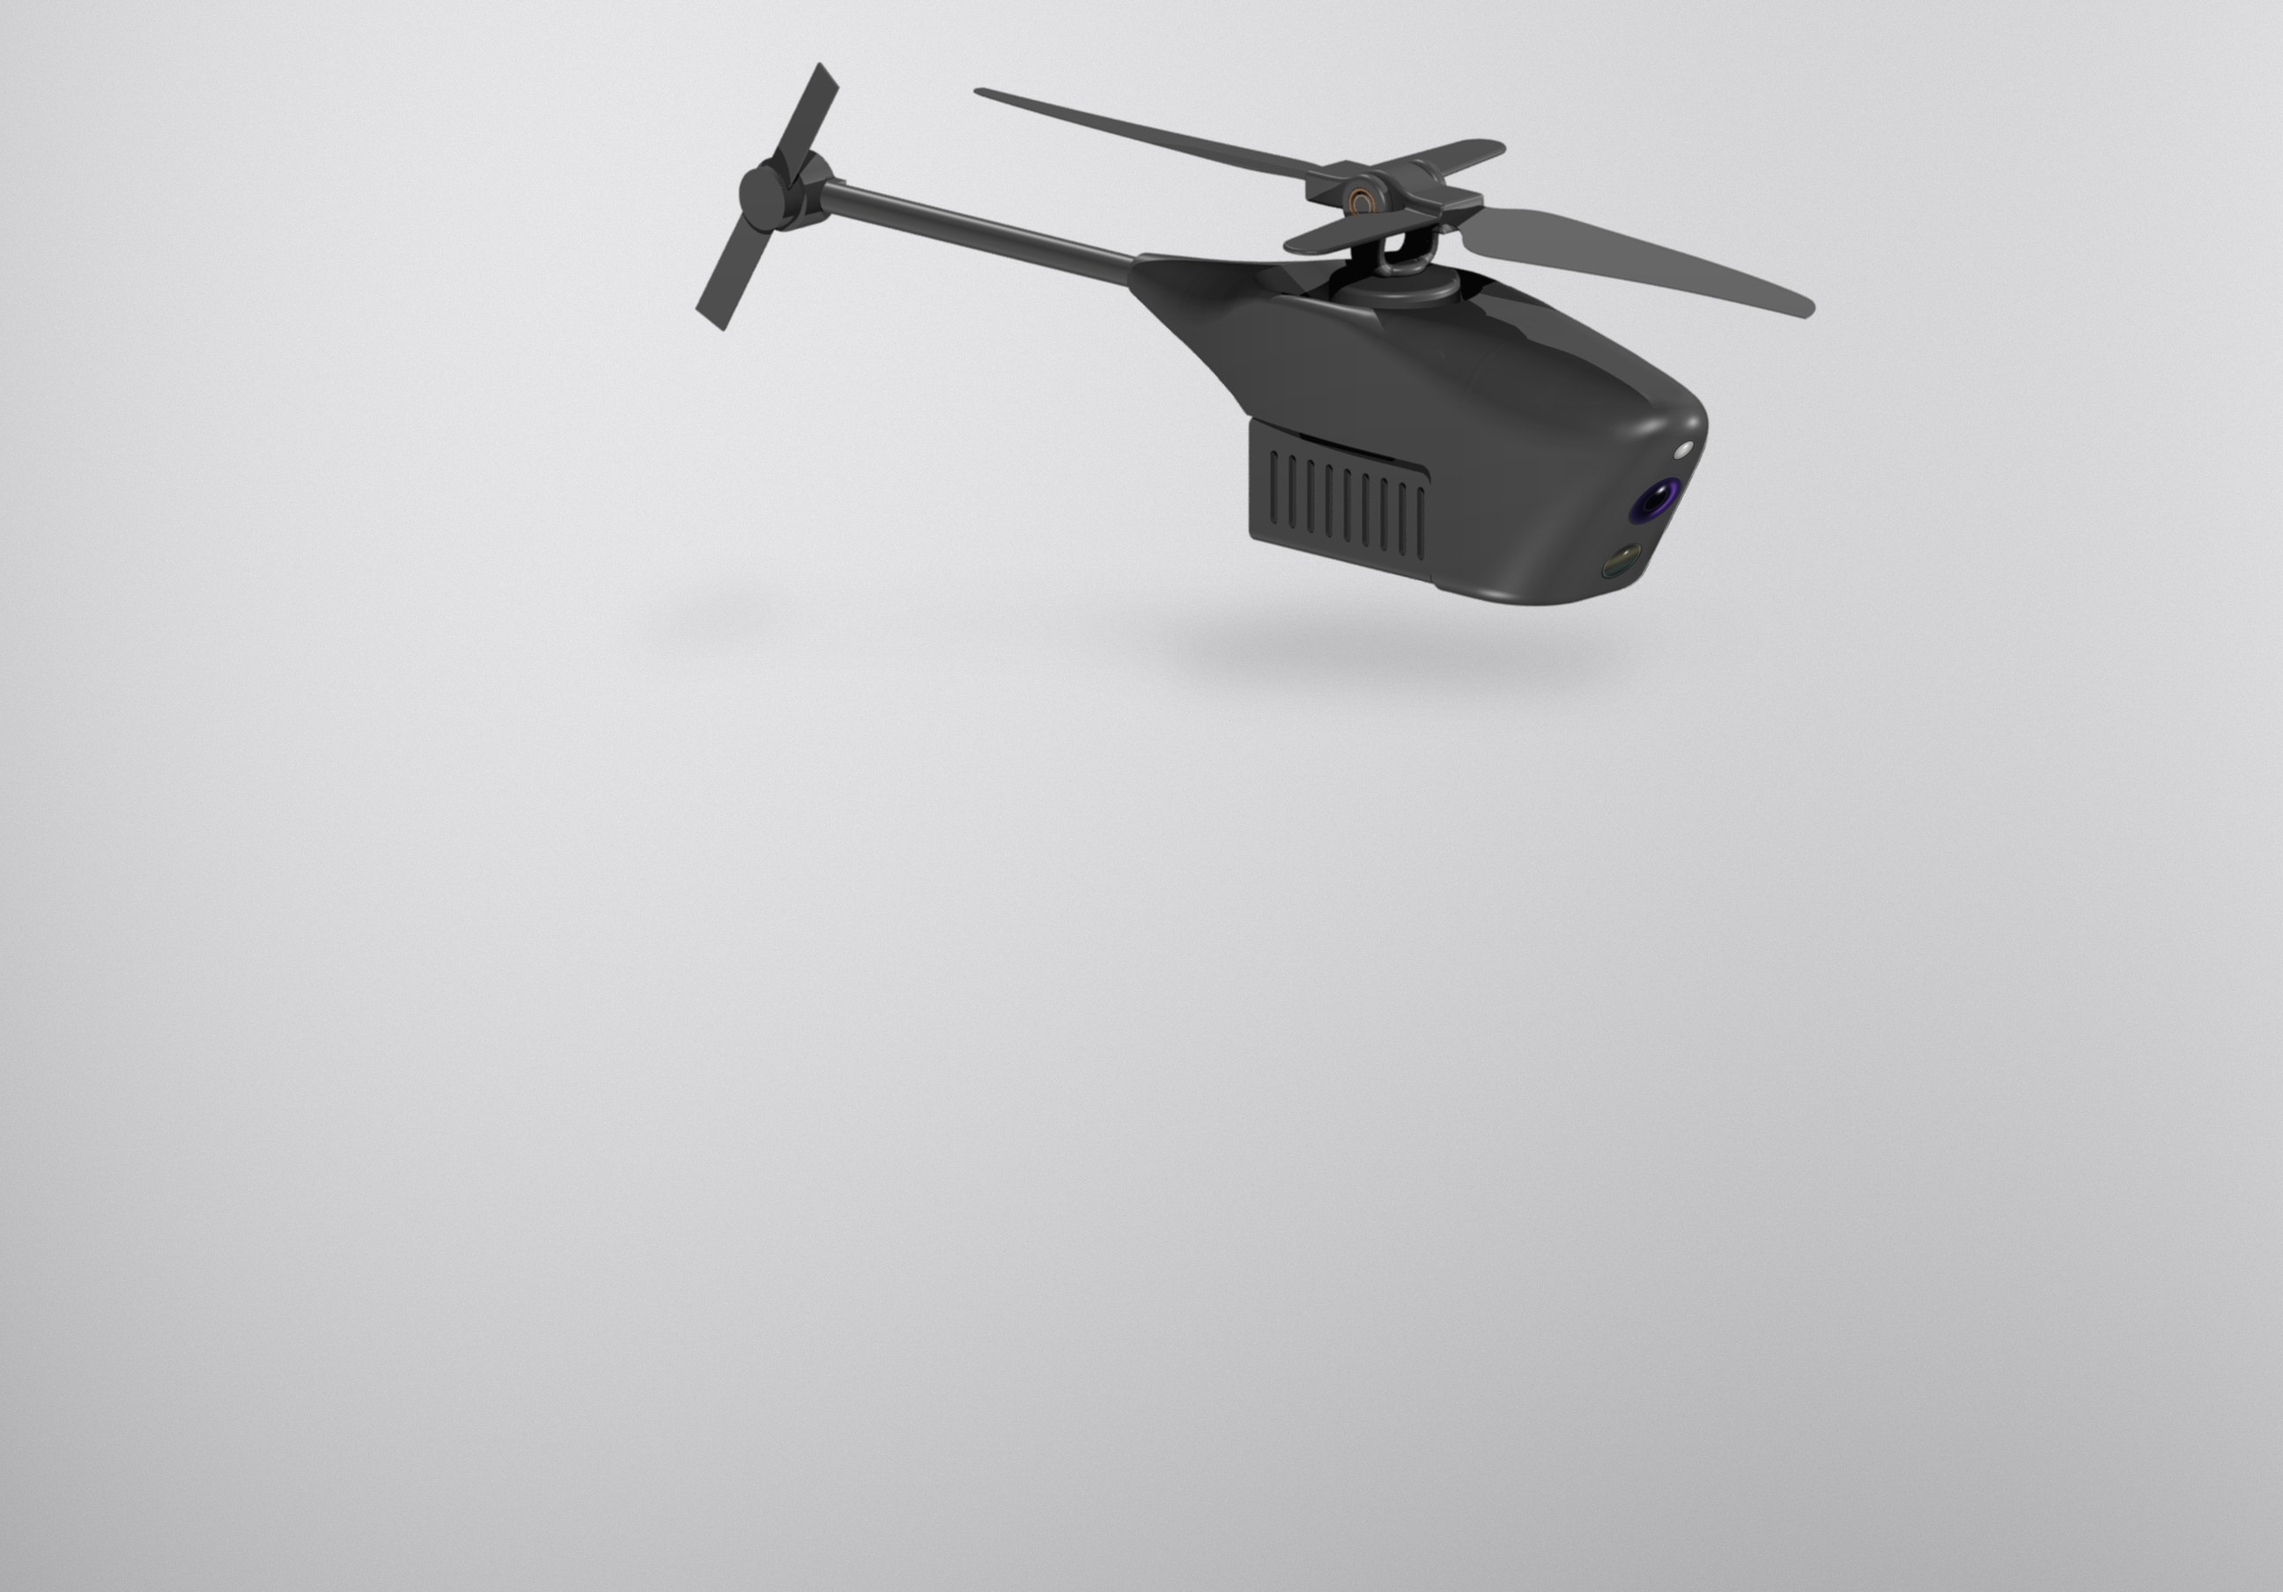
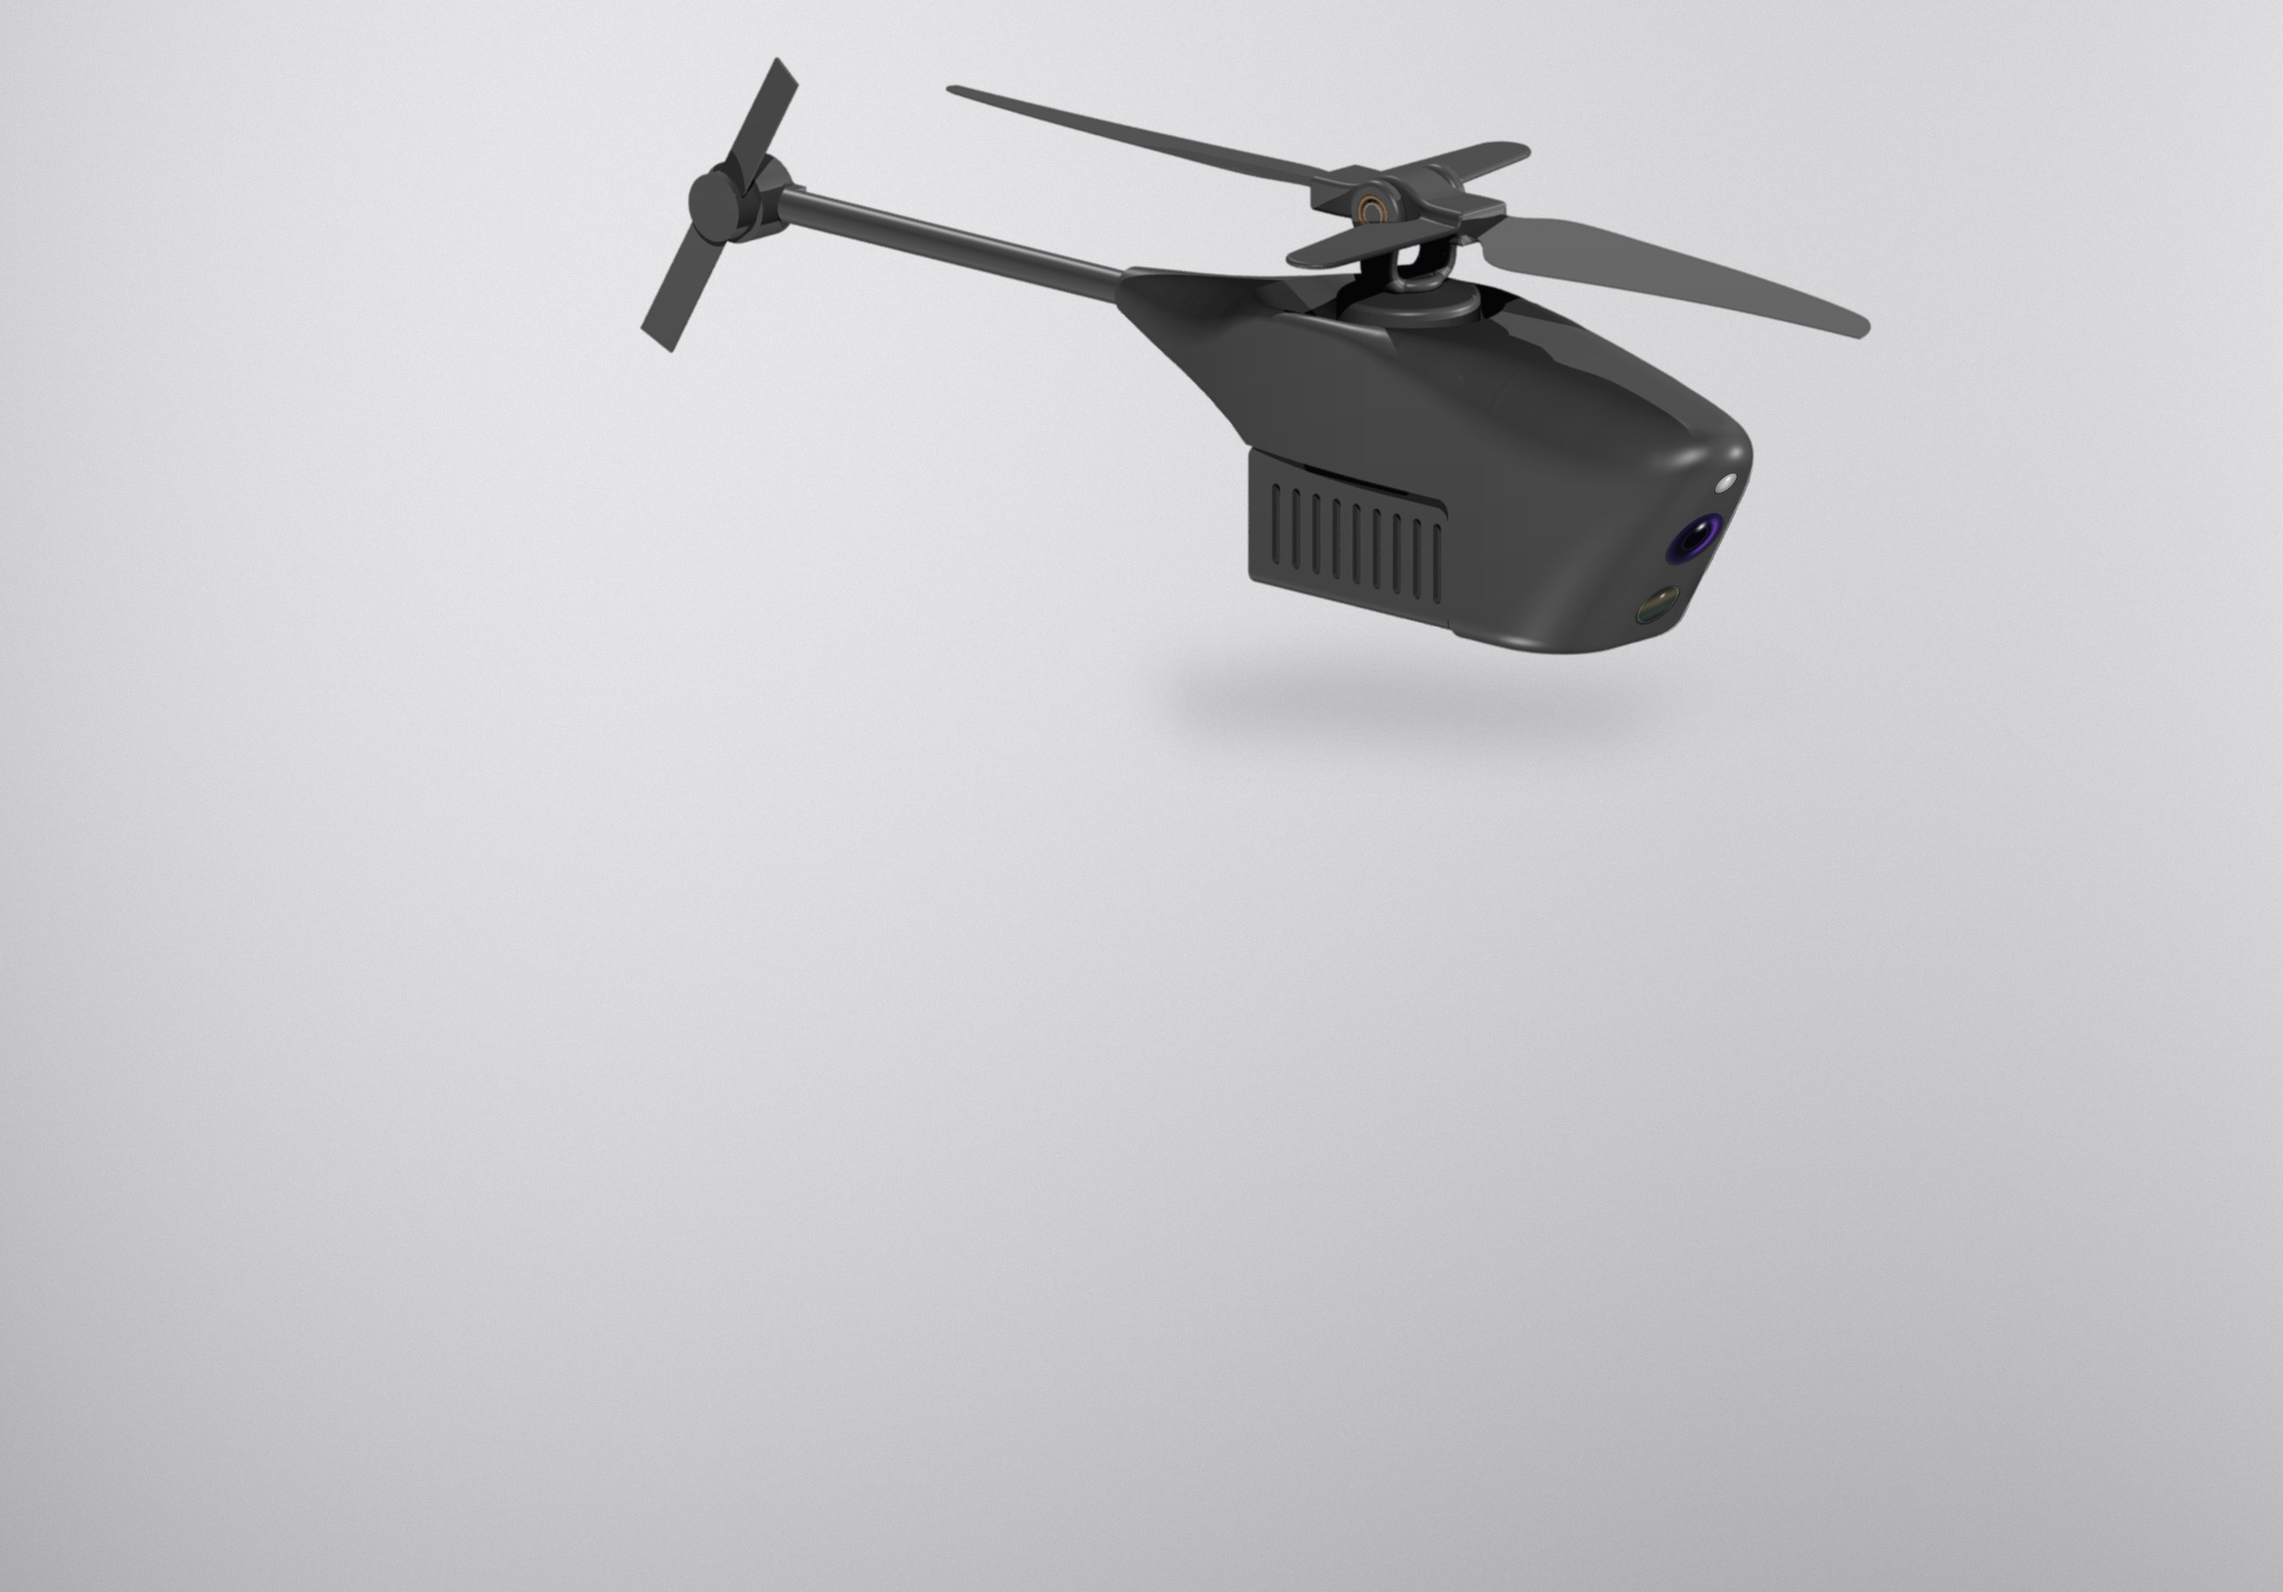
Hero: bigger render, lower and more central on big monitors; copy punctuation
Hero
- New large version (render ~17 % bigger, lower, more central) served on
  monitors >= 1580 px wide with aspect ratio up to 2.35
- Elsewhere above 760 px the render is ~10 % bigger in its old place:
  on laptops (e.g. 1366 x 650) and very wide, low windows the tall heading
  leaves no room to move it down
- Phone render ~7 % bigger
- Floor shadow faded where the heading sits; hero may grow to 40 % of the
  width on very wide screens, so the heading clears the render there too
- Clearance to every text line checked from 1280 x 580 to 3440 x 1440

Copy
- Use: the Security text joins its two sentences with a comma
- Technology points and Story paragraphs end with a full stop

diff --git a/src/content.js b/src/content.js
@@ -1,5 +1,6 @@
 // All site copy lives here so it can be edited (or translated) in one place.
-// Style: no full stop at the end of headings and text blocks (full stops between sentences stay).
+// Style: no full stop after headings, short labels and the Use panels (those use commas instead).
+// The Technology points and the Story paragraphs are full sentences and end with a full stop.
 
 // TODO: replace with the real address
 export const CONTACT_EMAIL = 'hello@example.com'
@@ -19,8 +20,11 @@ export const hero = {
   title: 'Nightjar',
   text: 'Whispering helidrone designed for the unseen',
   image: '/images/nightjar-hero.jpg',
-  // TODO: demo only. The wide image has background added by hand; replace with a proper wide render
+  // TODO: demo only. The wide images have background added by hand; replace with a proper wide render.
+  // Two wide versions: the large one (bigger, lower, more central) on monitors >= 1580 px wide with an
+  // aspect ratio up to 2.35; the other everywhere else above 760 px, where the tall heading needs the room.
   imageWide: '/images/nightjar-hero-wide.jpg',
+  imageLarge: '/images/nightjar-hero-large.jpg',
   imageAlt: 'Nightjar micro-helicopter render',
 }
 
@@ -41,7 +45,7 @@ export const uses = {
       alt: 'Nightjar day and thermal view from above: three intruders cutting the fence of a guarded compound at night',
       title: 'Security',
       subtitle: 'Public and physical protection',
-      text: 'A look around, day or night. Quiet enough that nobody notices it is there',
+      text: 'A look around, day or night, quiet enough that nobody notices it is there',
     },
     {
       image: '/images/use-fire.jpg',
@@ -77,20 +81,20 @@ export const technology = {
   points: [
     {
       title: 'Mechanically simple, physically advanced',
-      text: 'Micro-helicopters in this class need three extra servos to control the main rotor. Nightjar needs none',
+      text: 'Micro-helicopters in this class need three extra servos to control the main rotor. Nightjar needs none.',
       badge: 'Core innovation · Patent pending',
     },
     {
       title: 'Quieter',
-      text: 'Inaudible beyond 10 m. Instinctively mistaken for a small flying animal. No buzzing servos, so nothing sounds like a machine',
+      text: 'Inaudible beyond 10 m. Instinctively mistaken for a small flying animal. No buzzing servos, so nothing sounds like a machine.',
     },
     {
       title: 'More reliable',
-      text: 'No swashplate, no linkages, no extra servos. Fewer parts to wear out, break or adjust',
+      text: 'No swashplate, no linkages, no extra servos. Fewer parts to wear out, break or adjust.',
     },
     {
       title: 'Longer in the air',
-      text: 'Efficient main rotor control means longer flights, more time in action and less downtime',
+      text: 'Efficient main rotor control means longer flights, more time in action and less downtime.',
     },
   ],
   // To-scale size comparison under the rotor heads (drawn in RotorCompare.jsx).
@@ -140,8 +144,8 @@ export const technology = {
 export const story = {
   title: 'Named after a bird nobody notices',
   paragraphs: [
-    'The nightjar is a bird of dusk. By day it blends into its surroundings; in low light it moves',
-    'That is the idea behind our aircraft: small, quiet, and useful exactly when it matters',
+    'The nightjar is a bird of dusk. By day it blends into its surroundings; in low light it moves.',
+    'That is the idea behind our aircraft: small, quiet, and useful exactly when it matters.',
   ],
   photo: '/images/nightjar-resting.jpg',
   photoAlt: 'A nightjar resting on a branch',

diff --git a/src/sections/Hero.jsx b/src/sections/Hero.jsx
@@ -8,6 +8,9 @@ export default function Hero() {
         <video className="hero-video" src={HERO_VIDEO} autoPlay muted loop playsInline />
       ) : (
         <picture>
+          {/* big monitors: larger, lower render. Not on laptops or very wide, low windows, where the
+              tall heading leaves no room for it (see the comment at hero in content.js) */}
+          <source media="(min-width: 1580px) and (max-aspect-ratio: 47/20)" srcSet={hero.imageLarge} />
           {/* same breakpoint as the phone media queries in styles.css (760px) */}
           <source media="(min-width: 761px)" srcSet={hero.imageWide} />
           <img className="hero-image" src={hero.image} alt={hero.imageAlt} />

diff --git a/src/styles.css b/src/styles.css
@@ -245,7 +245,8 @@ a {
   margin-top: calc(-1 * var(--header-h));
   height: 100svh;
   min-height: 560px;
-  max-height: 980px;
+  /* very wide screens get a taller hero (up to 40 % of the width), so the heading stays clear of the render */
+  max-height: max(980px, 40vw);
   overflow: hidden;
   isolation: isolate;
 }
